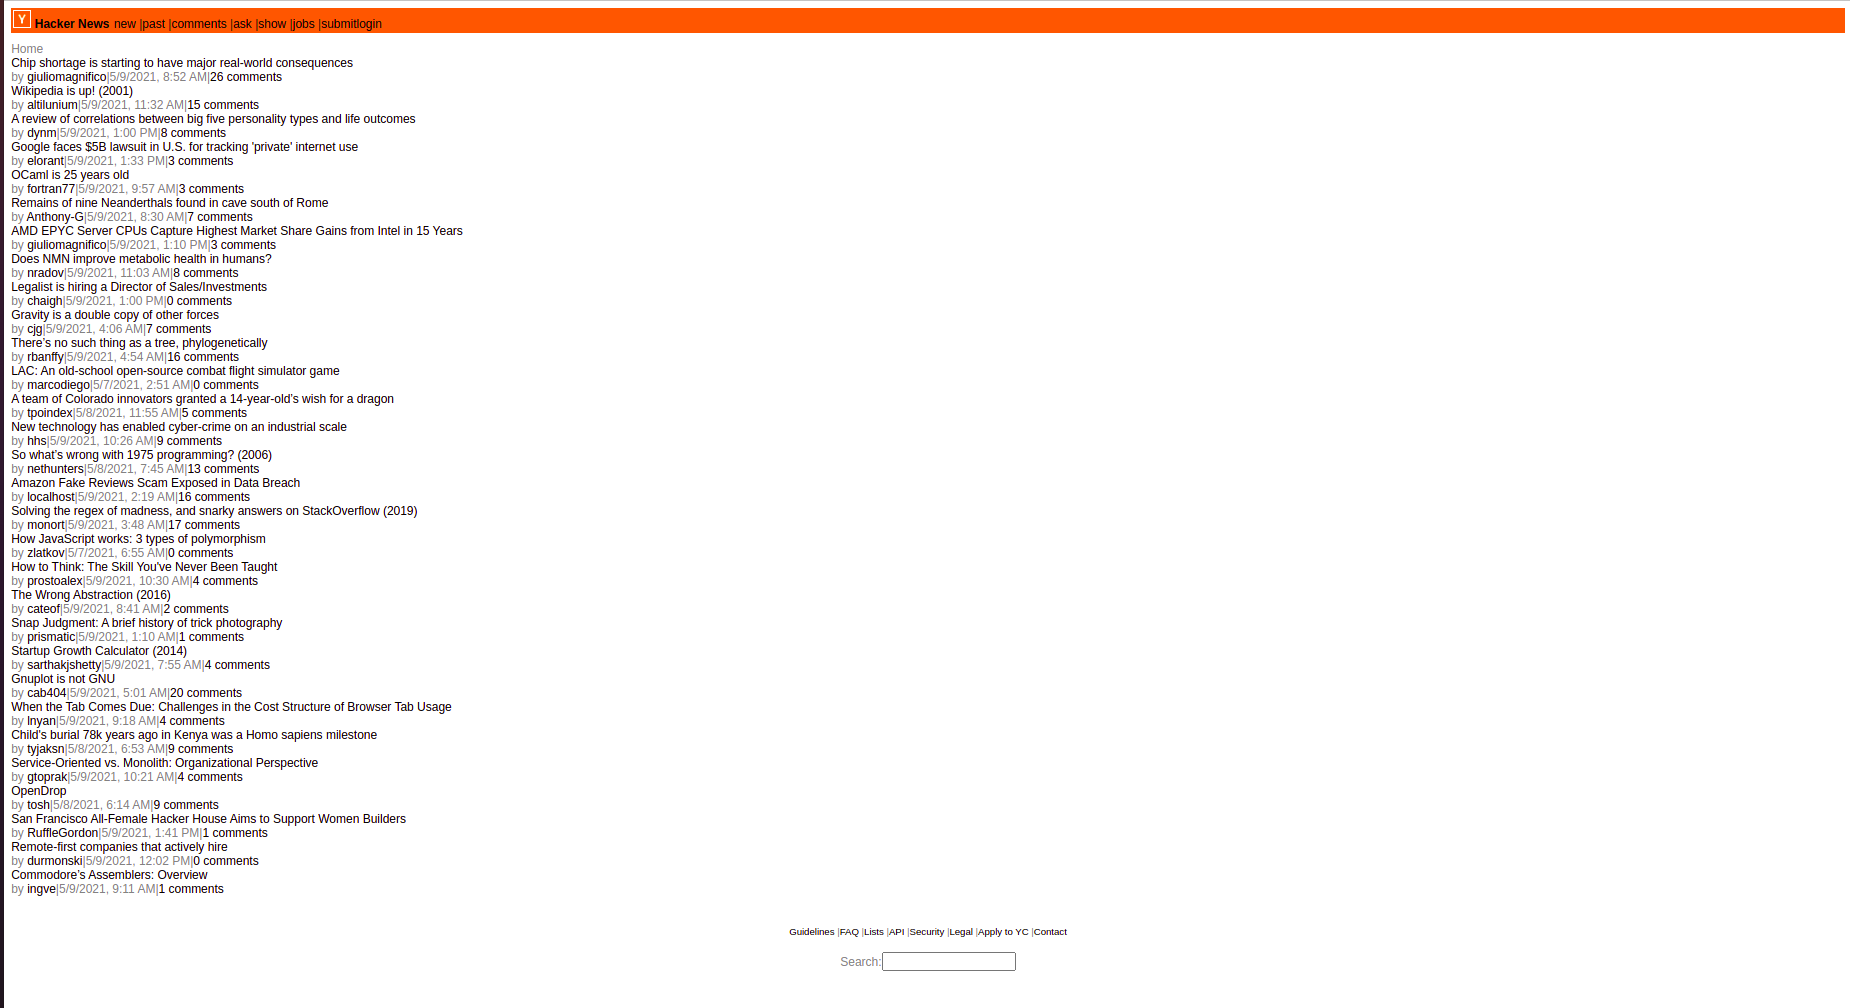
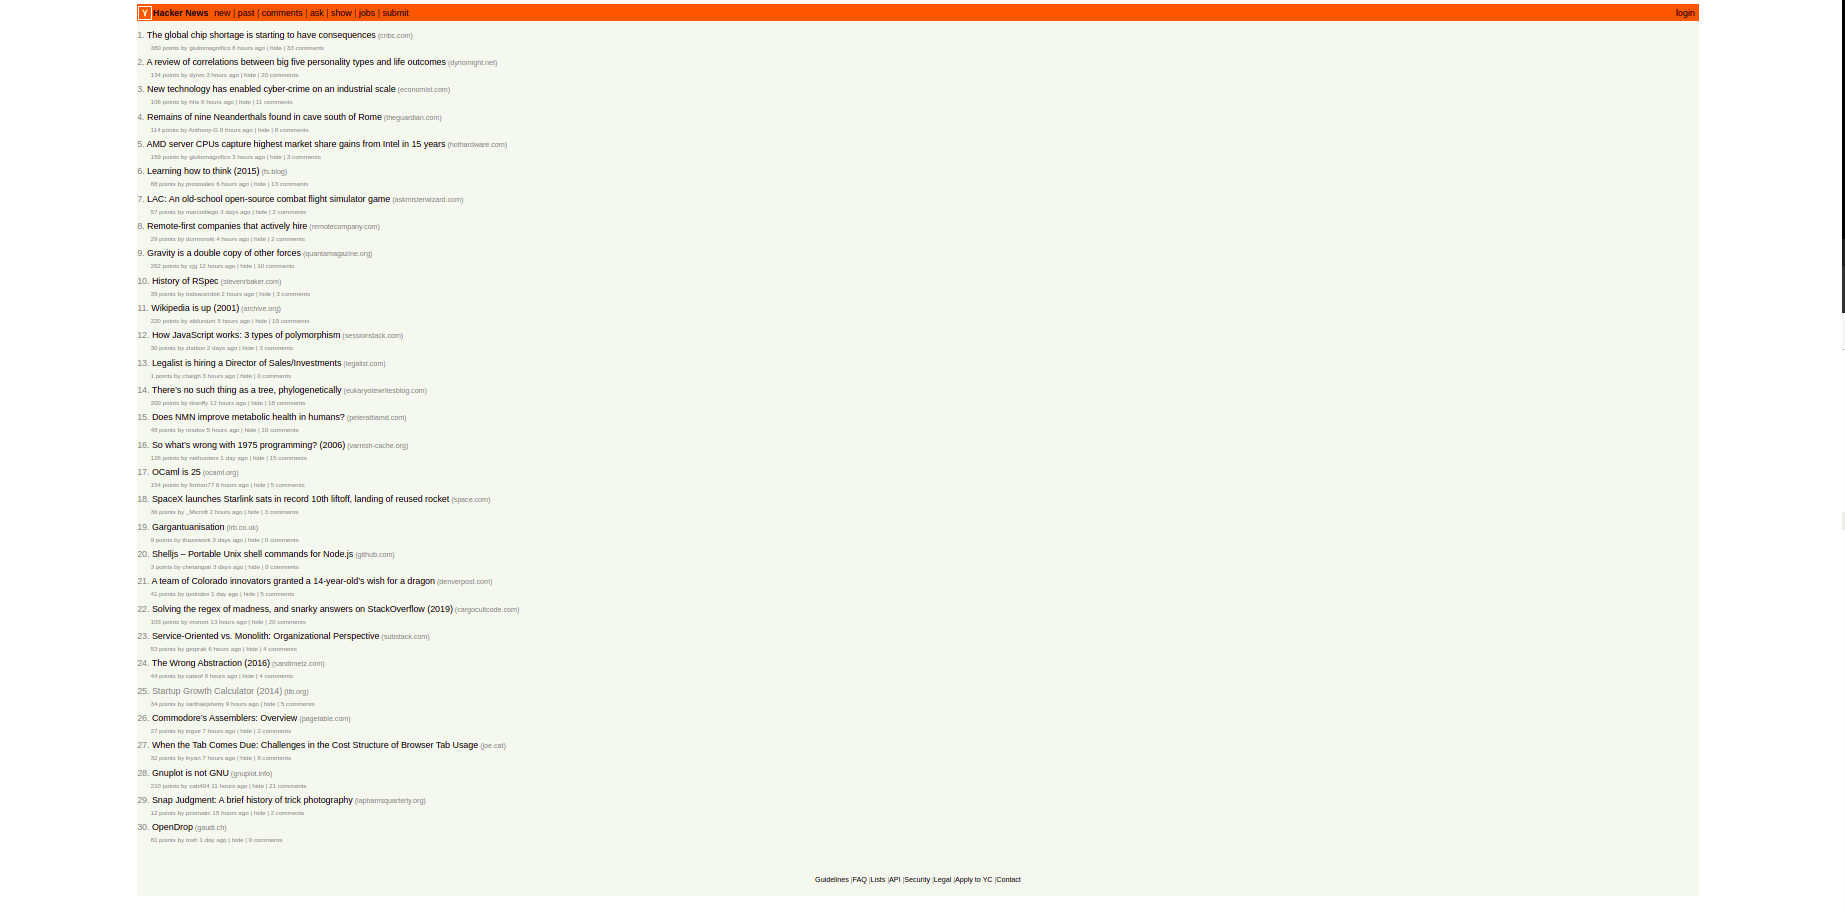
more styling fixes and update photo

Changed region(s): [[0.0, 0.0, 1.0, 0.9261], [0.4325, 0.8953, 0.5561, 0.9879]]

diff --git a/src/Story.js b/src/Story.js
@@ -52,8 +52,7 @@ function Story({ story: { id, by, title, kids, time, url, score },rank}) {
                 </span>
             </div>
             <div>
-                <span colSpan="2"></span>
-                <span className="subtext">
+                <span className="subtext" style={{paddingLeft:"20px"}}>
                     <span className="score" id="score_27089576">{score} points</span> by <a href={`https://news.ycombinator.com/user?id=${by}`} className="hnuser">{by} </a>
                     <span className="age"><a href={`https://news.ycombinator.com/item?id=${id}`}>
                          {timeAgo.format(new Date(time * 1000))}
